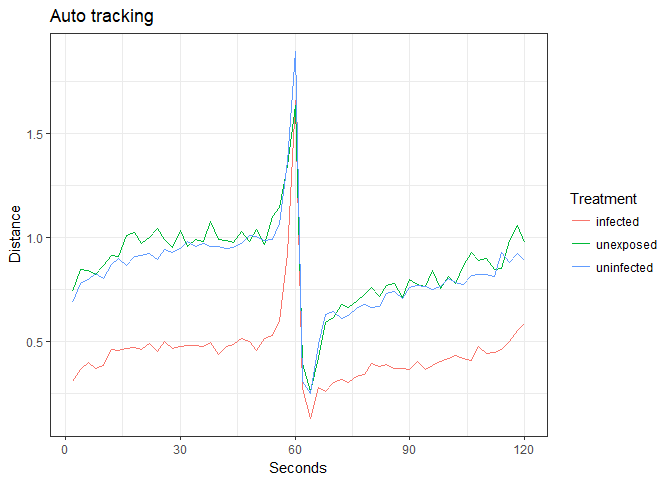
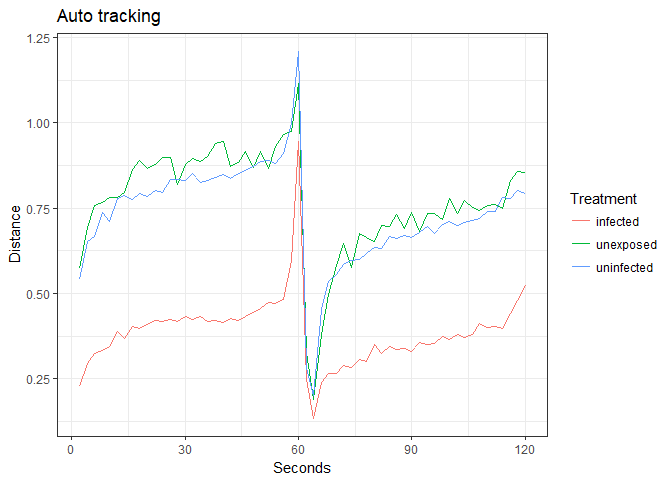
Re-knit rmd using full dataset (>8000 recordings; takes awhile)

diff --git a/compare_manual_vs_auto_tracking/testing_automatic_tracker.md b/compare_manual_vs_auto_tracking/testing_automatic_tracker.md
@@ -44,15 +44,15 @@ Obviously, it would be nice to eliminate tracking mistakes. Two measures of dete
 
     ## 
     ##     0     1     2     3     4     5     6     7     8     9    10    11 
-    ## 0.597 0.389 0.009 0.001 0.001 0.000 0.000 0.000 0.000 0.000 0.000 0.000 
+    ## 0.632 0.359 0.006 0.001 0.000 0.000 0.000 0.000 0.000 0.000 0.000 0.000 
     ##    12    13    14    15    16    17    18    19    20    21    22    23 
     ## 0.000 0.000 0.000 0.000 0.000 0.000 0.000 0.000 0.000 0.000 0.000 0.000 
     ##    24    25    26    27    28    29    30    31    32    33    34    35 
     ## 0.000 0.000 0.000 0.000 0.000 0.000 0.000 0.000 0.000 0.000 0.000 0.000 
-    ##    36    37    38    39    40    42    44    45    47    48    49    50 
+    ##    36    37    38    39    40    42    43    44    45    47    48    49 
     ## 0.000 0.000 0.000 0.000 0.000 0.000 0.000 0.000 0.000 0.000 0.000 0.000 
-    ##    51    53    60    62    64 
-    ## 0.000 0.000 0.000 0.000 0.000
+    ##    50    51    53    60    62    64 
+    ## 0.000 0.000 0.000 0.000 0.000 0.000
 
 If more than 2 blobs are detected, the movements are usually large. Presumably, this happens when something is detected which is not the copepod, and the tracker makes a large 'jump'. After noticing this pattern, I revised the tracker script, so that when multiple blobs are detected, the one closest to the previous location is considered as the copepod. This helped in some cases, but it also led to the tracker sometimes getting 'stuck' in the wrong place, so in the end I did not retain this change to the tracker.
 
@@ -92,19 +92,19 @@ The correlation is clear, but there is a lot of variation (R<sup>2</sup> is ~0.5
     ## lm(formula = dist_a/8 ~ dist_m, data = bd_comb)
     ## 
     ## Residuals:
-    ##      Min       1Q   Median       3Q      Max 
-    ## -201.043  -39.530   -3.846   34.413  258.194 
+    ##     Min      1Q  Median      3Q     Max 
+    ## -188.68  -35.04   -9.79   24.44  467.76 
     ## 
     ## Coefficients:
     ##             Estimate Std. Error t value Pr(>|t|)    
-    ## (Intercept) 65.66733    2.12708   30.87   <2e-16 ***
-    ## dist_m       1.26432    0.03395   37.24   <2e-16 ***
+    ## (Intercept) 48.70623    1.13108   43.06   <2e-16 ***
+    ## dist_m       1.29643    0.01952   66.42   <2e-16 ***
     ## ---
     ## Signif. codes:  0 '***' 0.001 '**' 0.01 '*' 0.05 '.' 0.1 ' ' 1
     ## 
-    ## Residual standard error: 57.34 on 1700 degrees of freedom
-    ## Multiple R-squared:  0.4493, Adjusted R-squared:  0.449 
-    ## F-statistic:  1387 on 1 and 1700 DF,  p-value: < 2.2e-16
+    ## Residual standard error: 51.51 on 4540 degrees of freedom
+    ## Multiple R-squared:  0.4928, Adjusted R-squared:  0.4927 
+    ## F-statistic:  4411 on 1 and 4540 DF,  p-value: < 2.2e-16
 
 In the scatterplot above, there are obviously some cases where the auto-tracker recorded much more movement than manual tracking. I checked whether certain wells seemed more prone to be outliers, e.g. maybe wells on the outer edge of the well-plates exhibited more reflections or other noise because they were not at the center of the video frame. It is not obvious that a single well position was commonly an outlier (the position of each the 24 wells is indicated by a combo of a number (1 to 6) and a letter (A to D)). But wells on the outer edge of the plate may be more prone to overestimating movement, presumably due to tracking mistakes.
 
@@ -122,7 +122,7 @@ I wrote a [script](fix_auto_track_mistakes.R) that attempts to correct these mis
 
 ![](testing_automatic_tracker_files/figure-markdown_github/unnamed-chunk-23-1.png)
 
-This correction led to a fair amount of movement being removed. It decreased total copepod movement in a recording by 38.3% on average.
+This correction led to a fair amount of movement being removed. It decreased total copepod movement in a recording by 35.9% on average.
 
 Now, let's again compare how auto- and manual-tracking data compare, this time using our corrected auto-tracking data.
 
@@ -134,19 +134,19 @@ Now, let's again compare how auto- and manual-tracking data compare, this time u
     ## 
     ## Residuals:
     ##      Min       1Q   Median       3Q      Max 
-    ## -161.530  -14.782   -1.298   16.208  141.549 
+    ## -151.971  -12.395   -3.382    9.646  246.849 
     ## 
     ## Coefficients:
-    ##             Estimate Std. Error t value Pr(>|t|)    
-    ## (Intercept) 14.56265    1.00959   14.42   <2e-16 ***
-    ## dist_m       1.29704    0.01611   80.49   <2e-16 ***
+    ##              Estimate Std. Error t value Pr(>|t|)    
+    ## (Intercept) 12.239734   0.502691   24.35   <2e-16 ***
+    ## dist_m       1.246542   0.008675  143.69   <2e-16 ***
     ## ---
     ## Signif. codes:  0 '***' 0.001 '**' 0.01 '*' 0.05 '.' 0.1 ' ' 1
     ## 
-    ## Residual standard error: 27.22 on 1700 degrees of freedom
-    ##   (4160 observations deleted due to missingness)
-    ## Multiple R-squared:  0.7922, Adjusted R-squared:  0.792 
-    ## F-statistic:  6479 on 1 and 1700 DF,  p-value: < 2.2e-16
+    ## Residual standard error: 22.89 on 4540 degrees of freedom
+    ##   (3780 observations deleted due to missingness)
+    ## Multiple R-squared:  0.8197, Adjusted R-squared:  0.8197 
+    ## F-statistic: 2.065e+04 on 1 and 4540 DF,  p-value: < 2.2e-16
 
 Now, the correlation appears tighter. The slope of the correlation gets closer to 1, the intercept closer to 0, and R<sup>2</sup> increases to 0.8, all of which can be considered an improvement. This is not to say that all mistakes are eliminated, but enough are to make tedious manual tracking and fast automatic tracking quite comparable.
 
